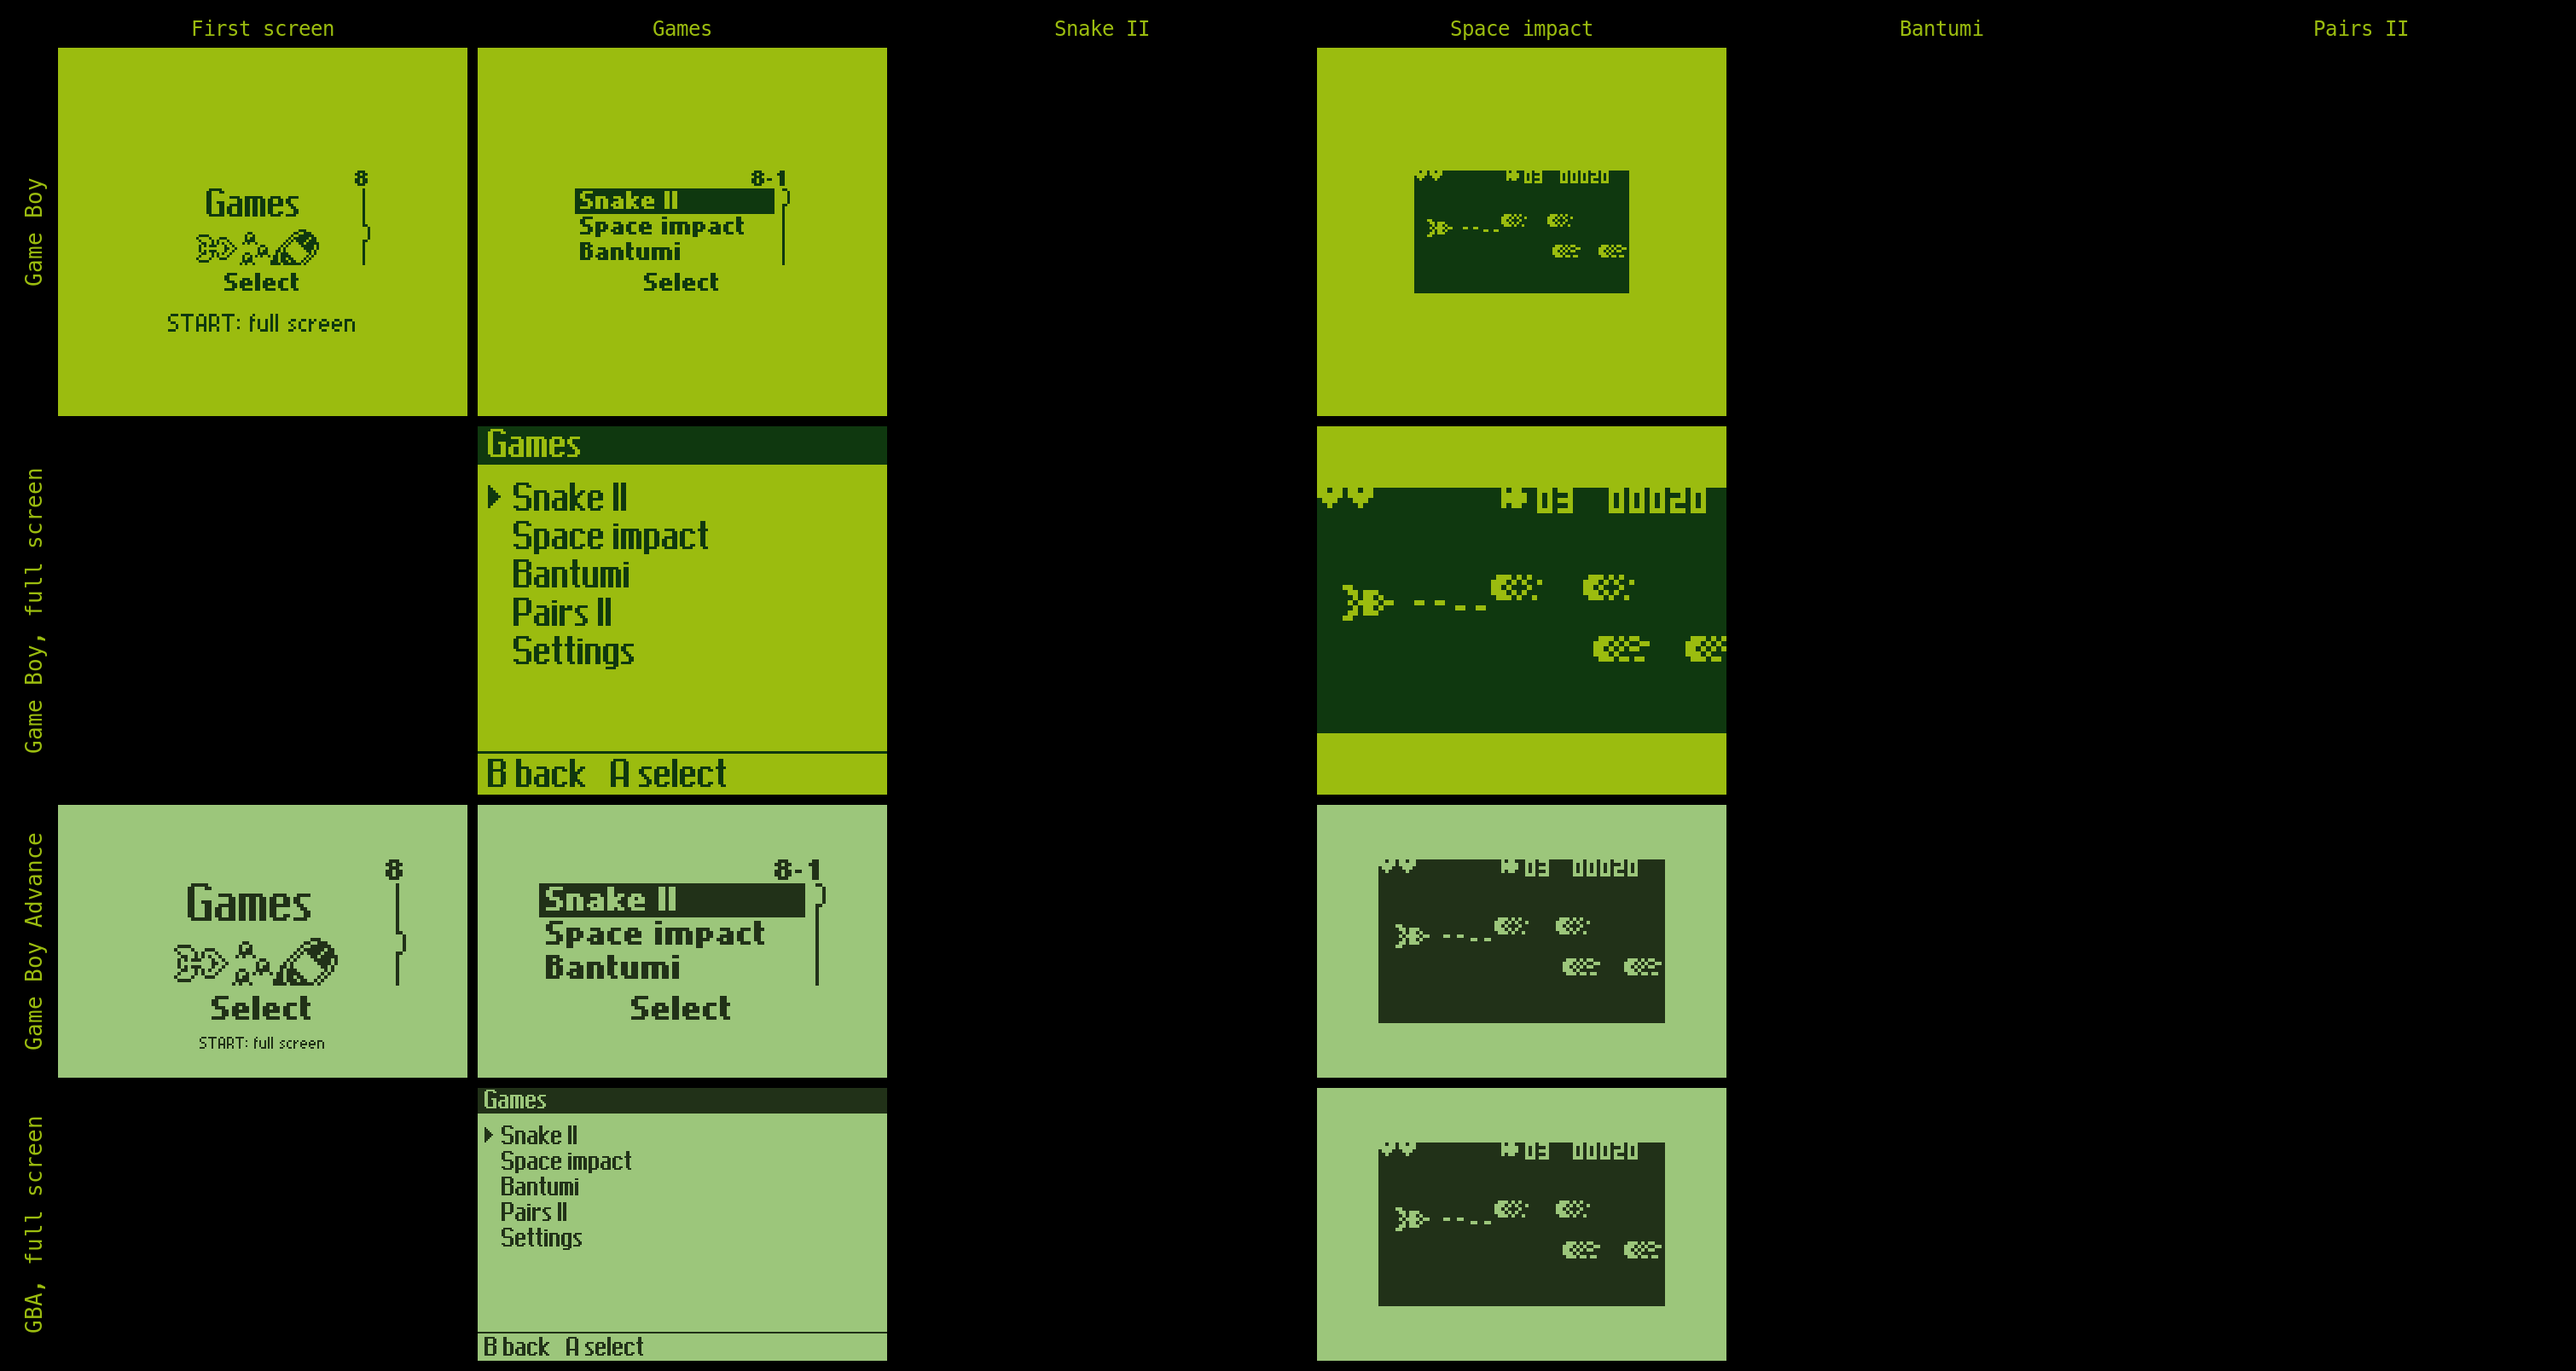
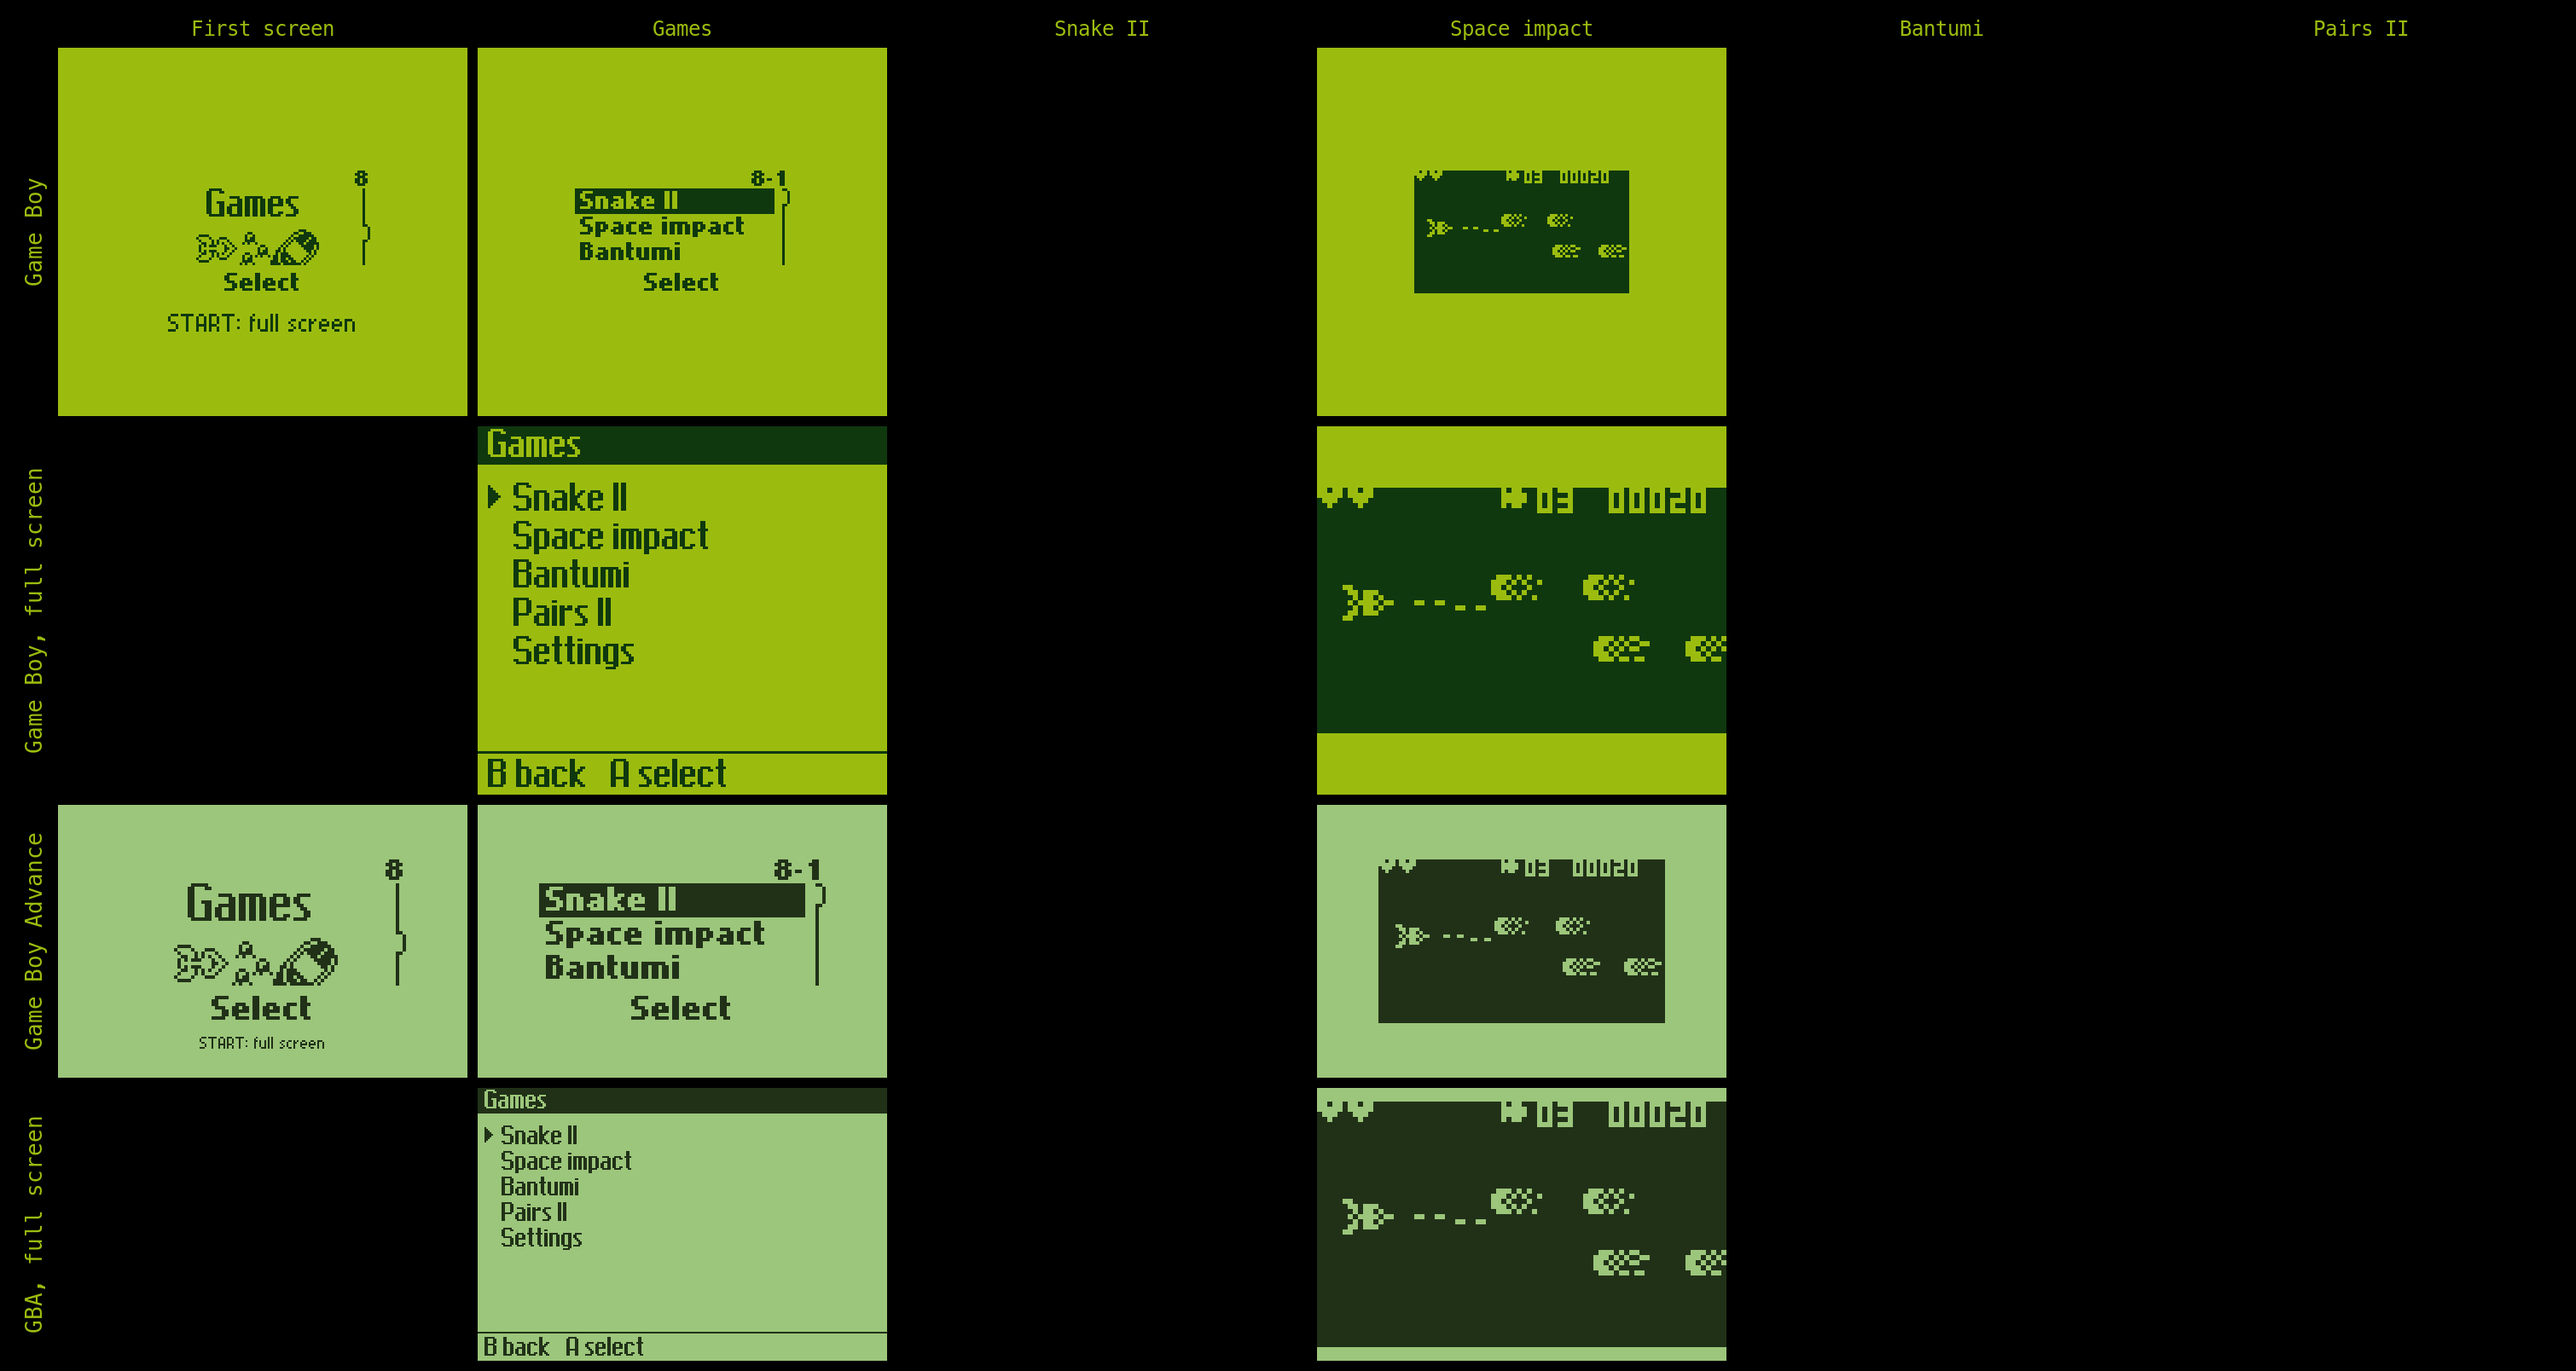
GBA: show the full-screen game at 3x with the display hardware's scaling
The core names how many times bigger the magnified rectangle is shown:
LCD_ZOOM for the phone's LCD, LCD_GAME_ZOOM for the game in the full-screen
variant where that is more. The GBA sets LCD_GAME_ZOOM to 3 and scales
BG2 for it instead of plotting 2x2 blocks: the LCD's first 80 columns fill
the screen's width, the last four are cut as on the Game Boy. A third is
not exact in the 8.8 step register, so a step of 85/256 from 82/256 into
the first pixel keeps every pixel a 3x3 block over the 80x48 shown.
Regenerate the banner.

Changed region(s): [[0.498, 0.7774, 0.6848, 0.995]]

diff --git a/platform/gba/main.c b/platform/gba/main.c
@@ -1,6 +1,8 @@
 /* GBA layer. The core's framebuffer is the whole 240x160 screen, shown in
    bitmap mode 3. The core names a part of it to magnify: the phone's 84x48
-   LCD is shown at 2x in the middle of the screen; the full-screen menus are
+   LCD is shown at 2x in the middle of the screen, and the game in the
+   full-screen mode at 3x by the display hardware's scaling, which fills the
+   screen's width with the LCD's first 80 columns; the full-screen menus are
    shown as they are. In the menus A is the phone's Navi key, B is its C
    key and the D-pad scrolls; Start on the first screen picks the
    full-screen mode. In the game the D-pad moves the ship, A fires, B uses
@@ -27,6 +29,13 @@
 #define REG_IE REG16(0x04000200)
 #define REG_WAITCNT REG16(0x04000204)
 #define REG_IME REG16(0x04000208)
+#define REG32(addr) (*(volatile uint32_t *)(addr))
+#define REG_BG2PA REG16(0x04000020)
+#define REG_BG2PB REG16(0x04000022)
+#define REG_BG2PC REG16(0x04000024)
+#define REG_BG2PD REG16(0x04000026)
+#define REG_BG2X REG32(0x04000028)
+#define REG_BG2Y REG32(0x0400002c)
 #define IRQ_VECTOR (*(void (*volatile *)(void))0x03007ffc)
 #define VRAM ((uint16_t *)0x06000000)
 
@@ -34,6 +43,20 @@
 #define SCREEN_H LCD_FB_HEIGHT
 /* Most frames of game time made up at once after a slow draw. */
 #define MAX_CATCH_UP 6
+
+/* The games on the phone's LCD in the full-screen variant are magnified by
+   the display hardware: mode 3's one layer, BG2, can be scaled, so the
+   framebuffer is drawn as it is and BG2 is set to step a third of a pixel
+   per screen pixel. The step is in 8.8 fixed point, where a third is not
+   exact: 85/256 falls 0.94 of a pixel short over the 80 columns and 48
+   rows shown, which a start 82/256 into the first pixel absorbs, so that
+   every pixel is a 3x3 block on the screen. The bars above and below the
+   picture sample the cleared framebuffer around the LCD. */
+#if LCD_GAME_ZOOM != 3
+#error "ZOOM_STEP and ZOOM_START are for 3x"
+#endif
+#define ZOOM_STEP 85
+#define ZOOM_START 82
 
 #define RGB(r, g, b) ((uint16_t)((r) | (g) << 5 | (b) << 10))
 #define COLOR_CLEAR RGB(19, 24, 15)
@@ -139,8 +162,9 @@ void platform_vibrate(void)
 {
 }
 
-/* The magnified rectangle the screen currently shows. */
-static uint8_t shown_x, shown_y, shown_w, shown_h;
+/* The magnified rectangle the screen currently shows, and by how much:
+   LCD_ZOOM is done here, pixel by pixel; LCD_GAME_ZOOM by the hardware. */
+static uint8_t shown_x, shown_y, shown_w, shown_h, shown_by;
 
 /* One framebuffer pixel that changed: inside the magnified rectangle it is
    a block in the middle of the screen; outside, it goes where it is unless
@@ -207,17 +231,44 @@ static int cell_magnified(int cx, int cy)
     return x + 8 > shown_x && x < shown_x + shown_w && y + 8 > shown_y && y < shown_y + shown_h;
 }
 
+/* Sets BG2 to show the magnified rectangle LCD_GAME_ZOOM times bigger in
+   the middle of the screen, or the framebuffer as it is. */
+static void zoom_hardware(uint8_t on)
+{
+    int zx = (SCREEN_W - shown_w * LCD_GAME_ZOOM) / 2, zy = (SCREEN_H - shown_h * LCD_GAME_ZOOM) / 2;
+
+    REG_BG2PB = 0;
+    REG_BG2PC = 0;
+    if (!on) {
+        REG_BG2PA = 0x100;
+        REG_BG2PD = 0x100;
+        REG_BG2X = 0;
+        REG_BG2Y = 0;
+        return;
+    }
+    REG_BG2PA = ZOOM_STEP;
+    REG_BG2PD = ZOOM_STEP;
+    /* Where in the framebuffer the screen's top-left pixel samples, in 20.8
+       fixed point: the rectangle's corner less the bars, which lie before it. */
+    REG_BG2X = (uint32_t)((shown_x << 8) + ZOOM_START - zx * ZOOM_STEP) & 0x0fffffff;
+    REG_BG2Y = (uint32_t)((shown_y << 8) + ZOOM_START - zy * ZOOM_STEP) & 0x0fffffff;
+}
+
 /* Redraws the 8x8 cells of lcd_fb drawn to since the last call, or the
    whole screen when what is magnified changes. */
 static void present(void)
 {
-    uint8_t all = lcd_zoom_x != shown_x || lcd_zoom_y != shown_y || lcd_zoom_w != shown_w || lcd_zoom_h != shown_h;
+    uint8_t all = lcd_zoom_x != shown_x || lcd_zoom_y != shown_y || lcd_zoom_w != shown_w || lcd_zoom_h != shown_h
+                  || lcd_zoom_by != shown_by;
+    uint8_t hardware;
     int cx, cy, x, y, cover;
 
     shown_x = lcd_zoom_x;
     shown_y = lcd_zoom_y;
     shown_w = lcd_zoom_w;
     shown_h = lcd_zoom_h;
+    shown_by = lcd_zoom_by;
+    hardware = shown_w && shown_by == LCD_GAME_ZOOM;
     for (cy = 0; cy < LCD_CELLS_Y; cy++) {
         for (cx = 0; cx < LCD_CELLS_X; cx++) {
             uint8_t *dirty = &lcd_dirty[cx + LCD_CELLS_X * cy];
@@ -225,7 +276,7 @@ static void present(void)
             if (!*dirty && !all)
                 continue;
             *dirty = 0;
-            if (!shown_w) {
+            if (!shown_w || hardware) {
                 plot_cell(cx, cy);
                 continue;
             }
@@ -245,6 +296,9 @@ static void present(void)
                     plot(x, y);
         }
     }
+    /* After the picture, so that what the hardware magnifies is in place. */
+    if (all)
+        zoom_hardware(hardware);
 }
 
 /* The buttons down, as menu_held wants them. */

diff --git a/core/lcd.h b/core/lcd.h
@@ -31,14 +31,12 @@
 #ifndef LCD_ZOOM
 #define LCD_ZOOM 1
 #endif
-/* A platform that shows the phone's LCD as it is may still magnify it by
-   this much for the games played on it in the full-screen variant, cutting
-   off what does not fit at the sides. */
+/* A platform may magnify the games played on the phone's LCD in the
+   full-screen variant by this much instead, when it is more than LCD_ZOOM,
+   cutting off on the right what does not fit across its screen. */
 #ifndef LCD_GAME_ZOOM
 #define LCD_GAME_ZOOM LCD_ZOOM
 #endif
-/* How much bigger the rectangle named with lcd_zoom_set is shown. */
-#define LCD_ZOOM_BY (LCD_ZOOM > 1 ? LCD_ZOOM : LCD_GAME_ZOOM)
 /* The first screen row below the phone's LCD when it is the one magnified. */
 #define LCD_BELOW_PHONE (LCD_FB_HEIGHT / 2 + LCD_HEIGHT * LCD_ZOOM / 2)
 /* Whether there is room around the phone's LCD. */
@@ -63,11 +61,12 @@ void lcd_view_phone(void);
 void lcd_view_full(void);
 void lcd_view_set(uint8_t x, uint8_t y, uint8_t w, uint8_t h);
 
-/* The magnified rectangle, in framebuffer coordinates; none when lcd_zoom_w
-   is 0. */
-extern uint8_t lcd_zoom_x, lcd_zoom_y, lcd_zoom_w, lcd_zoom_h;
+/* The magnified rectangle, in framebuffer coordinates, and how many times
+   bigger it is shown, LCD_ZOOM or LCD_GAME_ZOOM; none when lcd_zoom_w is
+   0. */
+extern uint8_t lcd_zoom_x, lcd_zoom_y, lcd_zoom_w, lcd_zoom_h, lcd_zoom_by;
 
-void lcd_zoom_set(uint8_t x, uint8_t y, uint8_t w, uint8_t h);
+void lcd_zoom_set(uint8_t x, uint8_t y, uint8_t w, uint8_t h, uint8_t by);
 
 /* The pixel shown at a position on the screen, magnification applied. */
 uint8_t lcd_screen_pixel(uint8_t x, uint8_t y);

diff --git a/core/menu.c b/core/menu.c
@@ -784,23 +784,24 @@ void menu_draw(void)
         surround_used = 0;
         board_drawn = 0;
     }
-    /* A platform that magnifies shows the phone's LCD bigger, and the
+    /* A platform that magnifies shows the phone's LCD bigger, the game in
+       the full-screen variant bigger still where it can, and the
        full-screen menus as they are. */
     if (mode == VIEW_PHONE) {
         lcd_view_phone();
-        if (LCD_ZOOM > 1)
-            lcd_zoom_set(LCD_PHONE_X, LCD_PHONE_Y, LCD_WIDTH, LCD_HEIGHT);
-        else if (LCD_GAME_ZOOM > 1 && full_screen && screen != SCREEN_MAIN) {
+        if (LCD_GAME_ZOOM > LCD_ZOOM && full_screen && screen != SCREEN_MAIN) {
             /* The game in the full-screen variant: as much of the LCD as
                fits across the screen. */
             lcd_view_set(GAME_ZOOM_X, LCD_PHONE_Y, LCD_WIDTH, LCD_HEIGHT);
-            lcd_zoom_set(GAME_ZOOM_X, LCD_PHONE_Y, GAME_ZOOM_WIDTH, LCD_HEIGHT);
+            lcd_zoom_set(GAME_ZOOM_X, LCD_PHONE_Y, GAME_ZOOM_WIDTH, LCD_HEIGHT, LCD_GAME_ZOOM);
+        } else if (LCD_ZOOM > 1) {
+            lcd_zoom_set(LCD_PHONE_X, LCD_PHONE_Y, LCD_WIDTH, LCD_HEIGHT, LCD_ZOOM);
         } else {
-            lcd_zoom_set(0, 0, 0, 0);
+            lcd_zoom_set(0, 0, 0, 0, 1);
         }
     } else {
         lcd_view_full();
-        lcd_zoom_set(0, 0, 0, 0);
+        lcd_zoom_set(0, 0, 0, 0, 1);
     }
 
     if (mode == VIEW_NATIVE && native_update())

diff --git a/core/lcd.c b/core/lcd.c
@@ -32,25 +32,26 @@ void lcd_view_set(uint8_t x, uint8_t y, uint8_t w, uint8_t h)
     lcd_view_h = h;
 }
 
-uint8_t lcd_zoom_x, lcd_zoom_y, lcd_zoom_w, lcd_zoom_h;
+uint8_t lcd_zoom_x, lcd_zoom_y, lcd_zoom_w, lcd_zoom_h, lcd_zoom_by = 1;
 
-void lcd_zoom_set(uint8_t x, uint8_t y, uint8_t w, uint8_t h)
+void lcd_zoom_set(uint8_t x, uint8_t y, uint8_t w, uint8_t h, uint8_t by)
 {
     lcd_zoom_x = x;
     lcd_zoom_y = y;
     lcd_zoom_w = w;
     lcd_zoom_h = h;
+    lcd_zoom_by = by;
 }
 
 uint8_t lcd_screen_pixel(uint8_t x, uint8_t y)
 {
     if (lcd_zoom_w) {
-        int zx = x - (LCD_FB_WIDTH - lcd_zoom_w * LCD_ZOOM_BY) / 2;
-        int zy = y - (LCD_FB_HEIGHT - lcd_zoom_h * LCD_ZOOM_BY) / 2;
+        int zx = x - (LCD_FB_WIDTH - lcd_zoom_w * lcd_zoom_by) / 2;
+        int zy = y - (LCD_FB_HEIGHT - lcd_zoom_h * lcd_zoom_by) / 2;
 
-        if (zx >= 0 && zx < lcd_zoom_w * LCD_ZOOM_BY && zy >= 0 && zy < lcd_zoom_h * LCD_ZOOM_BY) {
-            x = (uint8_t)(lcd_zoom_x + zx / LCD_ZOOM_BY);
-            y = (uint8_t)(lcd_zoom_y + zy / LCD_ZOOM_BY);
+        if (zx >= 0 && zx < lcd_zoom_w * lcd_zoom_by && zy >= 0 && zy < lcd_zoom_h * lcd_zoom_by) {
+            x = (uint8_t)(lcd_zoom_x + zx / lcd_zoom_by);
+            y = (uint8_t)(lcd_zoom_y + zy / lcd_zoom_by);
         }
     }
     return lcd_fb_pixel(x, y);

diff --git a/tools/check_gb_frame.py b/tools/check_gb_frame.py
@@ -5,10 +5,9 @@ Usage: check_gb_frame.py SCREENSHOT.bmp FRAME.pgm
 
 The screenshot is a 32-bit BMP from SameBoy's tester (160x144) or from
 tools/gba_shot (240x160). The frame is the core's framebuffer as the host
-drew it: the same size as the screen for the Game Boy, and half the size
-each way for the GBA, which shows every pixel as a 2x2 block. Every pixel
-must match, and the screen must hold only the two shades the layers draw
-with.
+drew it, the size of the screen, with any magnification applied. Every
+pixel must match, and the screen must hold only the two shades the layers
+draw with.
 """
 import struct
 import sys

diff --git a/platform/host/frame_main.c b/platform/host/frame_main.c
@@ -47,7 +47,7 @@ int main(int argc, char **argv)
         return 2;
     }
     lcd_view_phone();
-    lcd_zoom_set(LCD_PHONE_X, LCD_PHONE_Y, LCD_WIDTH, LCD_HEIGHT);
+    lcd_zoom_set(LCD_PHONE_X, LCD_PHONE_Y, LCD_WIDTH, LCD_HEIGHT, LCD_ZOOM);
     if (strcmp(argv[1], "testcard") == 0) {
         testcard_draw();
     } else if (strcmp(argv[1], "outline") == 0) {

diff --git a/README.md b/README.md
@@ -25,11 +25,12 @@ What is there so far:
 
 Start on the first screen picks a full-screen mode instead, as in the 3210
 project: the port's own menus laid out for the console's whole screen in
-the phone's large font. On the Game Boy that mode shows the game at 2x.
-At 2x the phone's 84 columns are 8 pixels too wide for the Game Boy, which
-leaves off the last four: nothing of the score, which ends at column 75,
-but enemies come on four columns late and the ship can fly its nose out of
-sight.
+the phone's large font. In that mode the game is shown at 2x on the Game
+Boy and at 3x on the GBA, where the display hardware does the scaling.
+Either way the phone's 84 columns are four too many for the screen's
+width, so the last four are left off: nothing of the score, which ends at
+column 75, but enemies come on four columns late and the ship can fly its
+nose out of sight.
 
 | | Menus | Space Impact |
 |---|---|---|
